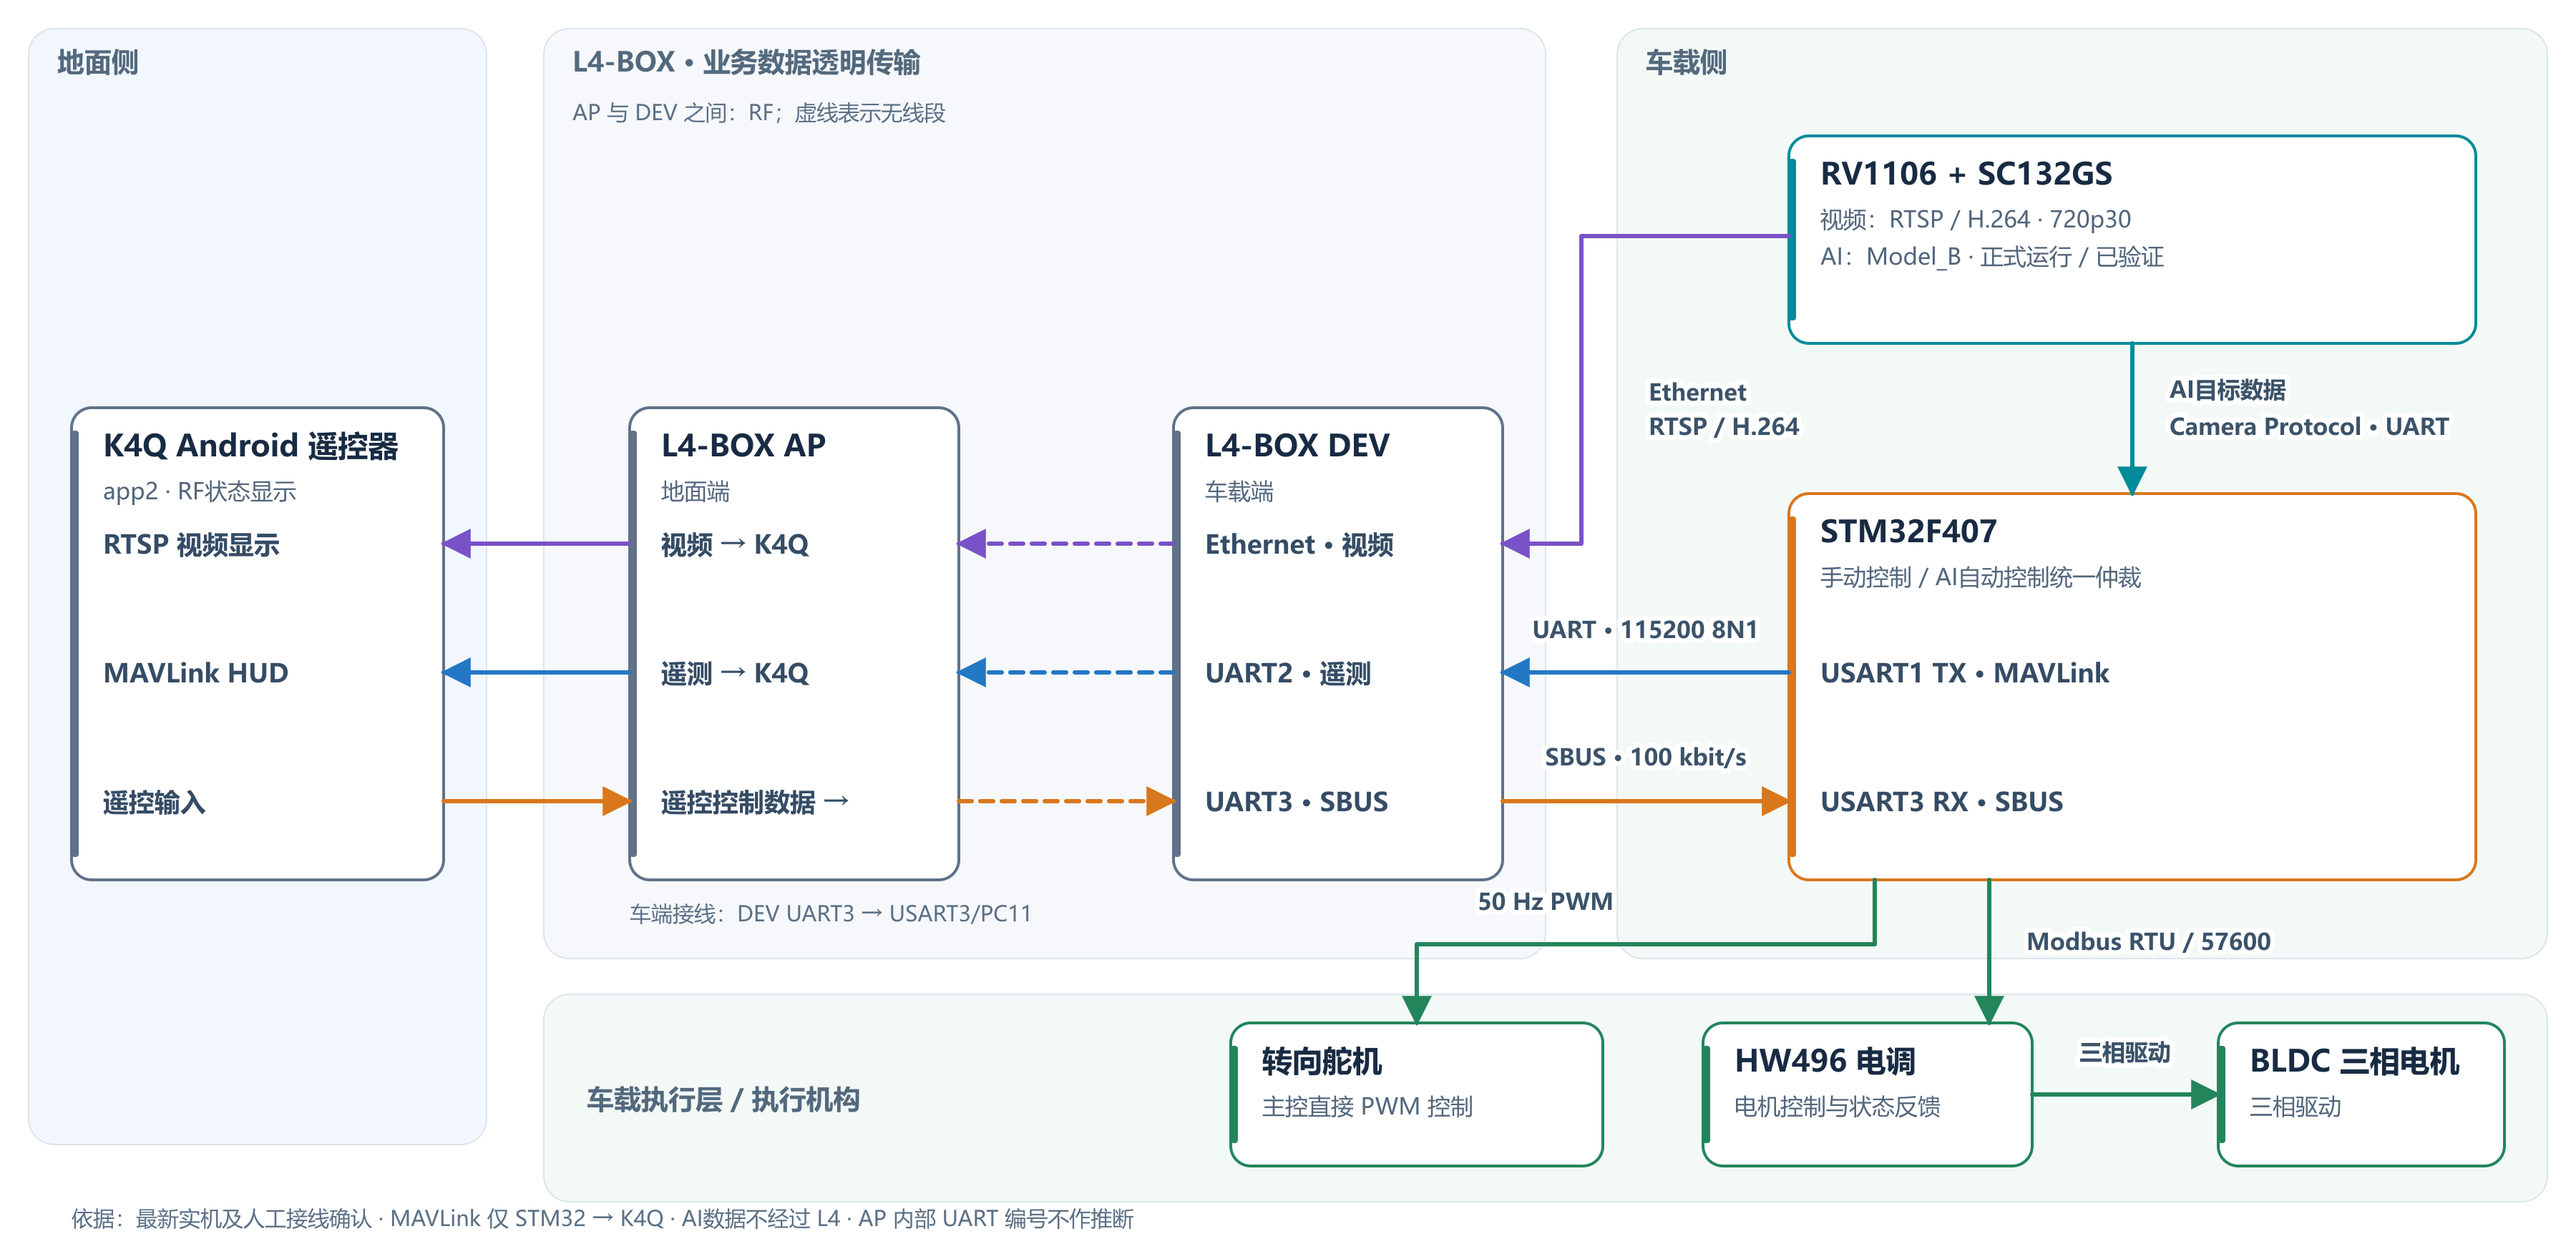
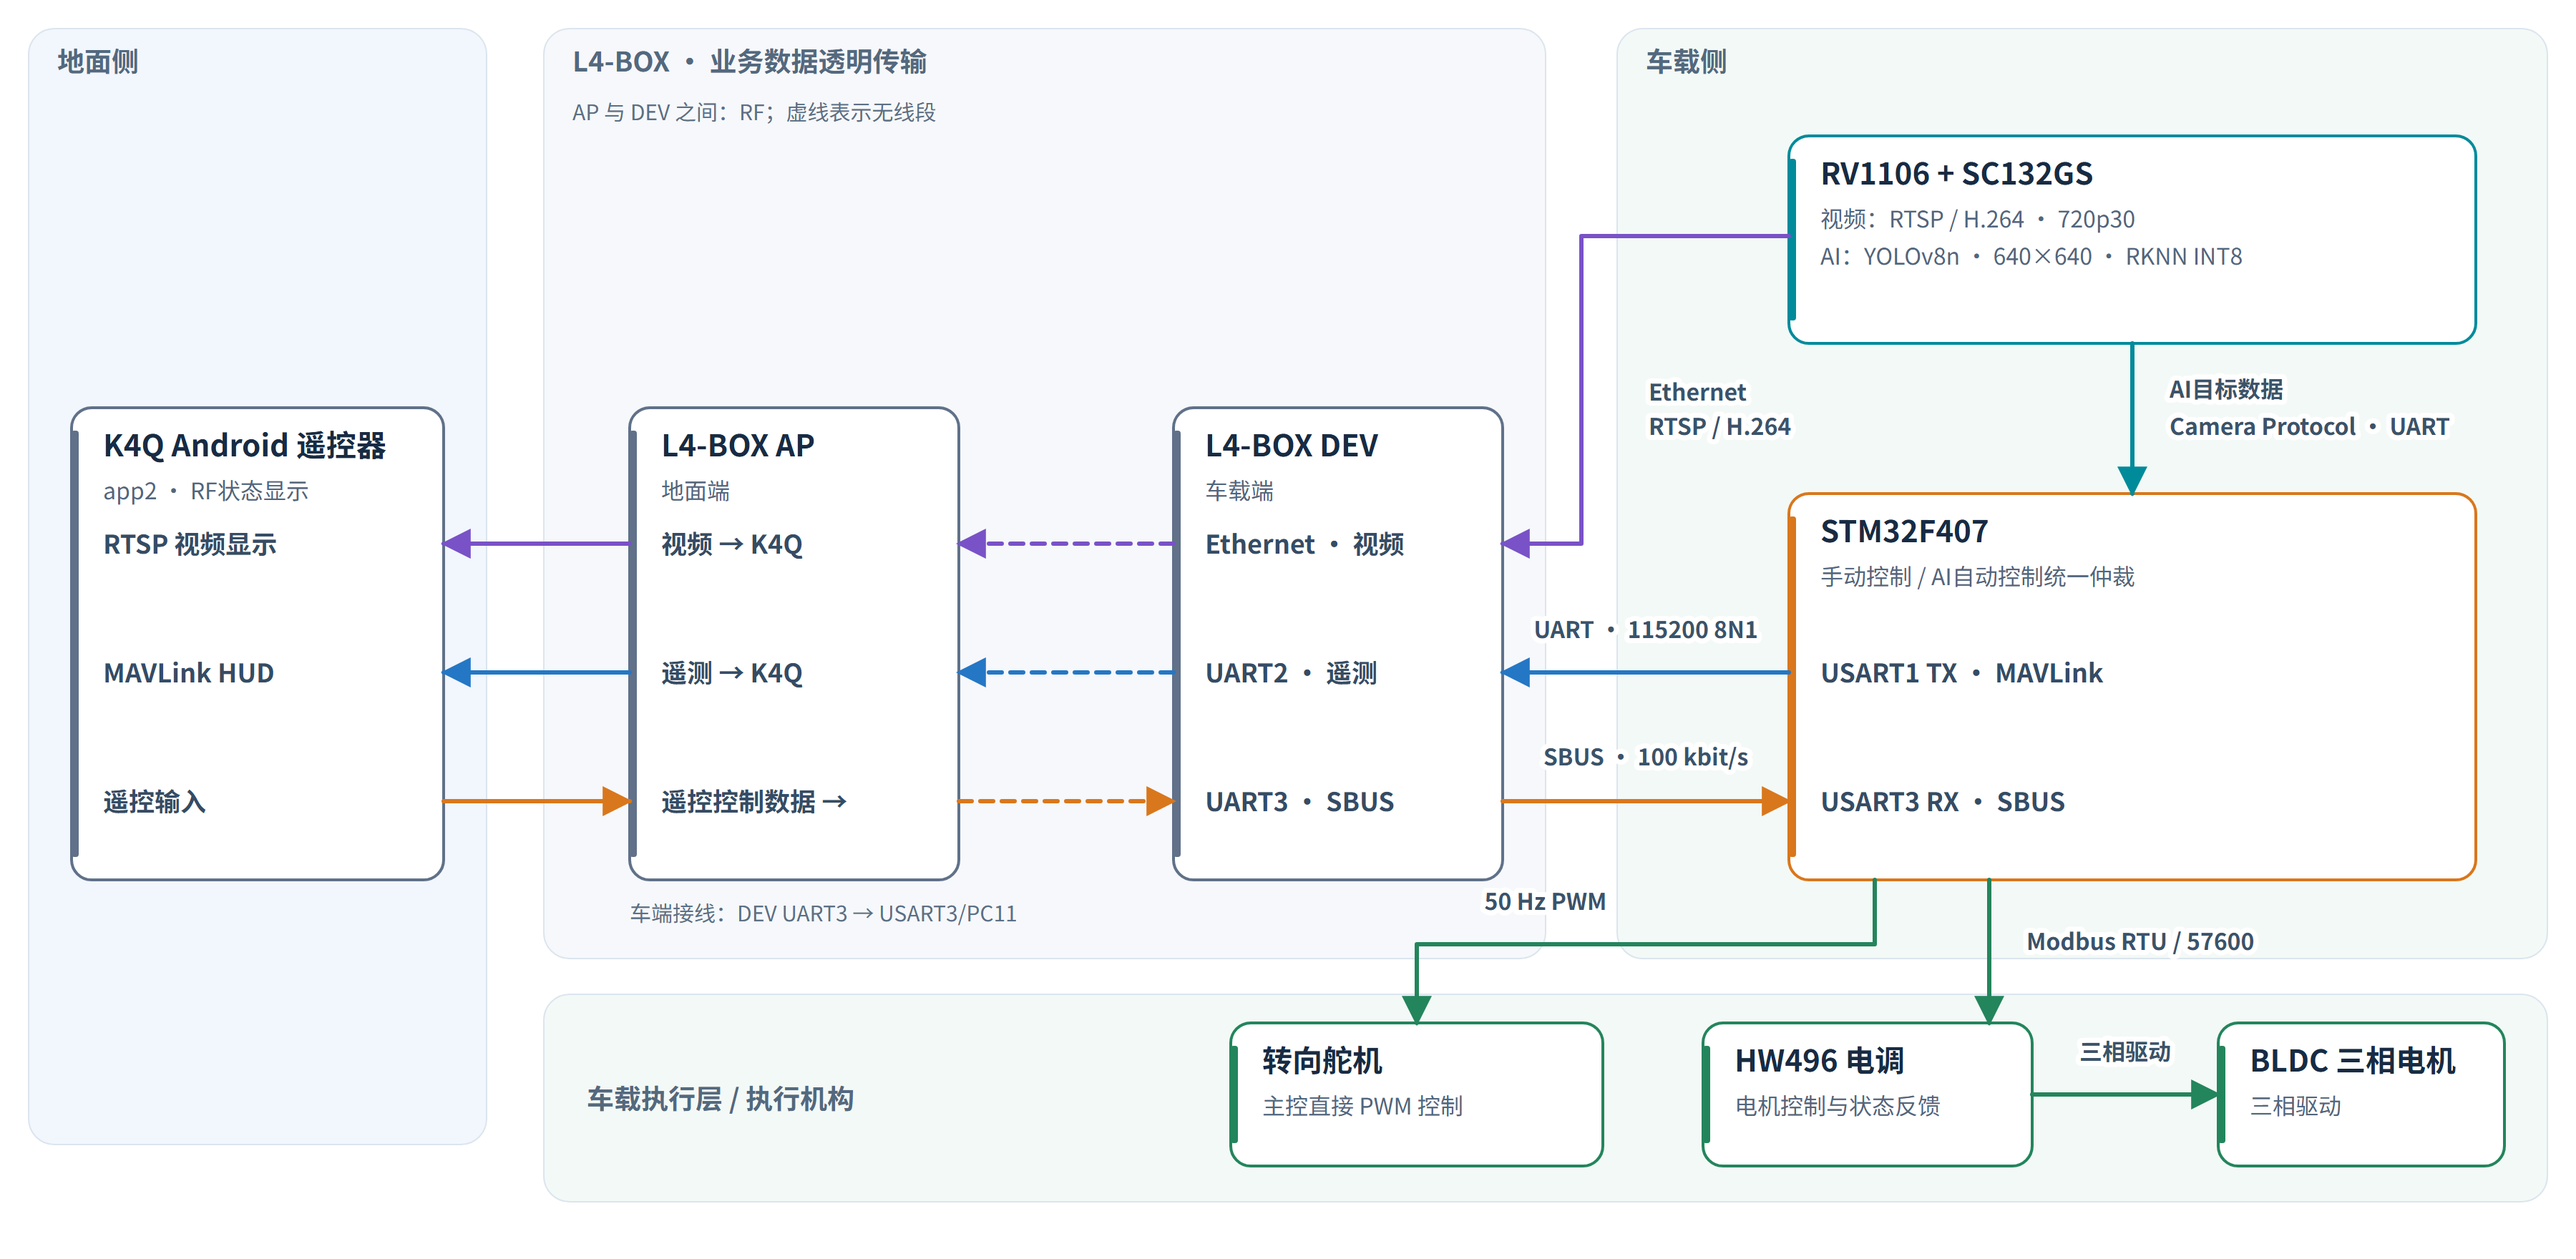
feat: refresh system diagrams and about layout

diff --git a/index.html b/index.html
@@ -329,13 +329,11 @@
 
     .about-grid {
       display: grid;
-      grid-template-columns: minmax(0, 1.35fr) minmax(320px, .65fr);
+      grid-template-columns: minmax(0, 1.1fr) minmax(360px, .9fr);
       gap: 14px;
-      align-items: stretch;
+      align-items: start;
     }
 
-    .about-personal,
-    .about-facts,
     .focus-card,
     .stack-card,
     .experience-card,
@@ -346,8 +344,7 @@
       background: rgba(18, 26, 35, .78);
     }
 
-    .about-personal,
-    .about-facts { padding: clamp(24px, 3vw, 28px); }
+    .about-personal { padding: 4px 0; }
 
     .about-personal > p:last-child {
       margin: 0;
@@ -357,8 +354,9 @@
     }
 
     .about-label { margin: 0 0 14px; color: var(--accent); font: 700 11px/1.4 ui-monospace, SFMono-Regular, Consolas, monospace; letter-spacing: .11em; }
-    .about-facts { display: grid; align-content: start; gap: 16px; }
-    .about-fact-section + .about-fact-section { padding-top: 16px; border-top: 1px solid var(--line); }
+    .about-facts { display: grid; align-content: start; gap: 12px; }
+    .education-card,
+    .awards-card { padding: 22px 24px; border: 1px solid var(--line); border-radius: var(--radius); background: rgba(18, 26, 35, .78); }
     .about-fact-section h3 { margin: 0; font-size: 18px; }
     .about-major, .about-period { margin: 6px 0 0; color: #bdc9d3; font-size: 14px; }
     .about-period { color: var(--muted); font: 600 12px/1.5 ui-monospace, SFMono-Regular, Consolas, monospace; }
@@ -518,7 +516,7 @@
     .clean-list { display: grid; gap: 8px; margin: 0; padding: 0; list-style: none; }
 
     .architecture-image { margin: 16px 0 0; overflow: hidden; border: 1px solid var(--line); border-radius: 12px; background: #f4f7f9; }
-    .architecture-image img { display: block; width: 100%; height: auto; max-height: 520px; aspect-ratio: 3600 / 1760; object-fit: contain; background: #f4f7f9; }
+    .architecture-image img { display: block; width: 100%; height: auto; max-height: none; object-fit: contain; background: #f4f7f9; }
     .architecture-image figcaption { padding: 10px 14px; color: var(--muted); font: 600 12px/1.5 ui-monospace, SFMono-Regular, Consolas, monospace; }
     .architecture-image figcaption strong { color: var(--text); }
     .architecture-details { margin-top: 8px; border: 1px solid var(--line); border-radius: 10px; background: rgba(13, 20, 27, .48); }
@@ -820,8 +818,8 @@
               </div>
               <div class="project-tags tags"><span class="tag">STM32F407</span><span class="tag">FreeRTOS</span><span class="tag">RV1106</span><span class="tag">SC132GS</span><span class="tag">YOLOv5 → RKNN</span><span class="tag">Modbus RTU</span><span class="tag">MAVLink</span><span class="tag">H.264 / RTSP</span></div>
               <figure class="architecture-image" aria-labelledby="s1-architecture-caption">
-                <img src="assets/s1-end-to-end-architecture.png" alt="途 S1 智能小车端到端系统架构图" loading="lazy">
-                <figcaption id="s1-architecture-caption"><strong>端到端系统架构</strong> · 遥控、STM32/FreeRTOS 控制、RV1106 视觉推理和 H.264/RTSP 图传的连接关系。</figcaption>
+                <img src="assets/s1-end-to-end-architecture.png?v=20260910" alt="途 S1 智能小车端到端系统架构图" loading="lazy">
+                <figcaption id="s1-architecture-caption"><strong>端到端系统架构</strong> · 展示遥控控制、STM32F407 / FreeRTOS、RV1106 视觉推理、目标结果回传及 H.264 / RTSP 视频链路。</figcaption>
               </figure>
 
               <div class="project-showcase" aria-label="途 S1 主演示与实车照片">
@@ -837,7 +835,7 @@
                 <section class="project-block"><h4>关键实现 / 工程结果</h4><ul class="clean-list"><li>完成 YOLOv5 → RKNN 640×640 INT8 模型部署，单帧推理约 57 ms</li><li>通过 RKIPC RGN/OSD 将检测框叠加至 RTSP 视频</li><li>实现视觉跟随、目标接近及手动 / 自动模式切换</li><li>实现 720p30 H.264/RTSP 图传，实测显示端到端延迟约 240 ms</li><li>定位并解决电机压降导致图传重启、DMA 未启用导致状态回传异常</li></ul></section>
               </div>
 
-              <details class="architecture-details"><summary>查看 FreeRTOS / MAVLink 控制链路详情</summary><figure><img src="assets/s1-freertos-flow.png" alt="途 S1 智能小车 FreeRTOS 控制任务流程图" loading="lazy"><figcaption>遥控解析、底盘控制与状态回传的任务组织。</figcaption></figure></details>
+              <details class="architecture-details"><summary>查看 FreeRTOS / MAVLink 控制链路详情</summary><figure><img src="assets/s1-freertos-flow.png?v=20260910" alt="途 S1 智能小车 FreeRTOS 控制任务流程图" loading="lazy"><figcaption>FreeRTOS 控制任务、遥控输入、视觉目标与状态回传关系。</figcaption></figure></details>
               <div class="secondary-video-grid" aria-label="途 S1 次要演示视频">
                 <figure class="project-media landscape-video"><video class="project-video" controls playsinline preload="none" poster="assets/web/s1-direction-tracking-poster.jpg" data-playback-rate="1.25" aria-label="途 S1 智能小车方向追踪实机演示视频"><source src="assets/web/s1-direction-tracking-web.mp4" type="video/mp4">当前浏览器不支持视频播放。</video><figcaption>方向追踪演示 · 默认 1.25×</figcaption></figure>
                 <figure class="project-media portrait-video"><video class="project-video" controls playsinline preload="none" poster="assets/web/s1-control-demo-poster.jpg" data-playback-rate="1.25" aria-label="途 S1 智能小车控制实机演示视频"><source src="assets/web/s1-control-demo-web.mp4" type="video/mp4">当前浏览器不支持视频播放。</video><figcaption>控制演示 · 1.25×</figcaption></figure>
@@ -920,8 +918,8 @@
         <div class="about-grid">
           <article class="about-personal reveal"><p class="about-label">PERSONAL</p><p>电子信息工程 2027 届本科生，实践方向集中在嵌入式控制、嵌入式 Linux、边缘视觉与软硬件联调。关注功能如何真正运行在设备上，包括硬件接入、通信链路、板端部署、问题定位与整机验证。</p></article>
           <div class="about-facts reveal">
-            <section class="about-fact-section" aria-labelledby="education-title"><p class="about-label" id="education-title">EDUCATION</p><h3>龙岩学院</h3><p class="about-major">电子信息工程</p><p class="about-period">2023.09 — 2027.06</p></section>
-            <section class="about-fact-section" aria-labelledby="awards-title"><p class="about-label" id="awards-title">AWARDS</p><ol class="awards-list"><li><span class="award-index">01</span><span class="award-name">2025 中国机器人及人工智能大赛全国总决赛</span><strong class="award-result">二等奖</strong></li><li><span class="award-index">02</span><span class="award-name">2025 全国大学生电子设计竞赛 TI 杯福建赛区</span><strong class="award-result">三等奖</strong></li><li><span class="award-index">03</span><span class="award-name">2025 “西门子杯”中国智能制造挑战赛华东一赛区</span><strong class="award-result">三等奖</strong></li></ol></section>
+            <section class="about-fact-section education-card" aria-labelledby="education-title"><p class="about-label" id="education-title">EDUCATION</p><h3>龙岩学院</h3><p class="about-major">电子信息工程</p><p class="about-period">2023.09 — 2027.06</p></section>
+            <section class="about-fact-section awards-card" aria-labelledby="awards-title"><p class="about-label" id="awards-title">AWARDS</p><ol class="awards-list"><li><span class="award-index">01</span><span class="award-name">2025 中国机器人及人工智能大赛全国总决赛</span><strong class="award-result">二等奖</strong></li><li><span class="award-index">02</span><span class="award-name">2025 全国大学生电子设计竞赛 TI 杯福建赛区</span><strong class="award-result">三等奖</strong></li><li><span class="award-index">03</span><span class="award-name">2025 “西门子杯”中国智能制造挑战赛华东一赛区</span><strong class="award-result">三等奖</strong></li></ol></section>
           </div>
         </div>
       </div>
